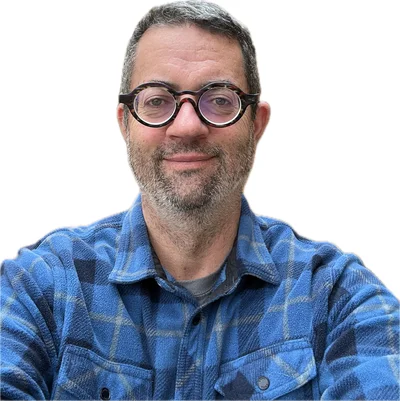
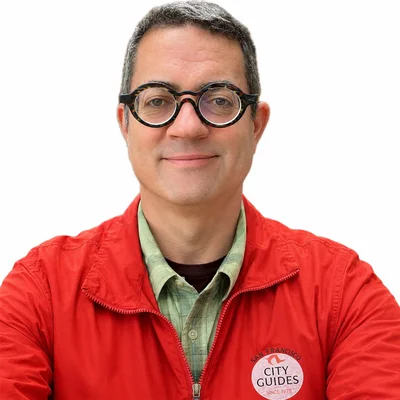
Replace eric.jpg with Eric SFCG.png as the guide photo source

diff --git a/scripts/process_images.py b/scripts/process_images.py
@@ -38,7 +38,7 @@ with open(CROP_FILE, "r") as f:
 
 # ── Phase 2: Static images from originals ─────────────────────────────────
 STATIC_IMAGES = [
-    ("eric.jpg", "400x"),
+    ("eric.png", "400x"),
     ("latm-front-cover.jpg", "300x"),
     ("komorebi_logo.jpg", "240x"),
 ]
